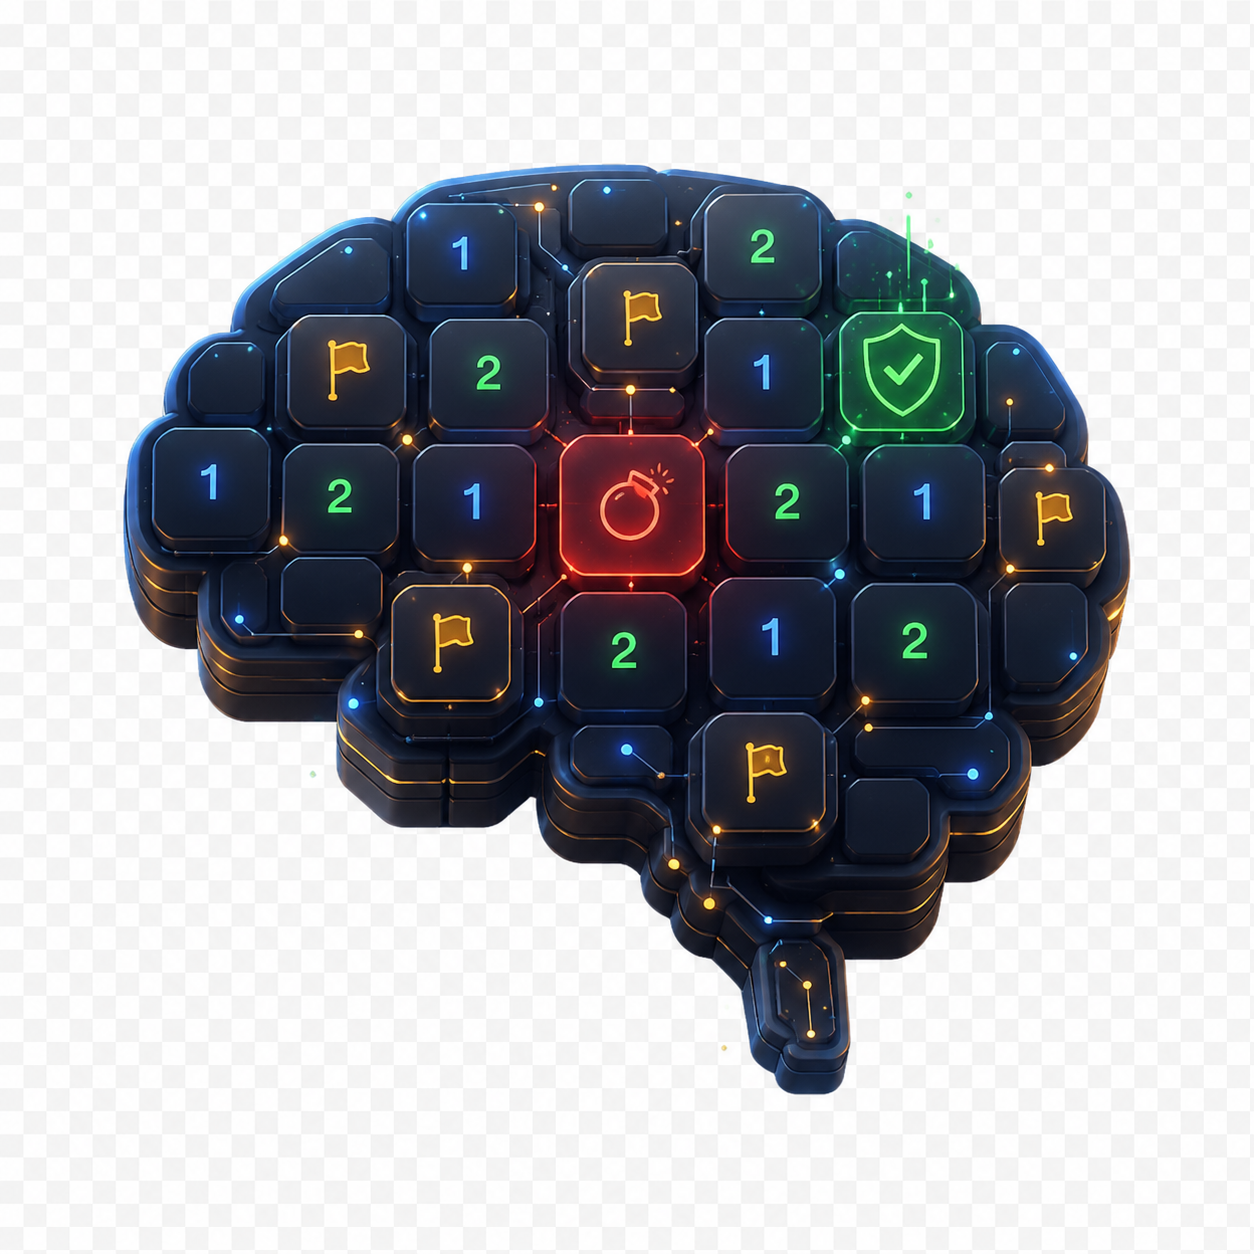
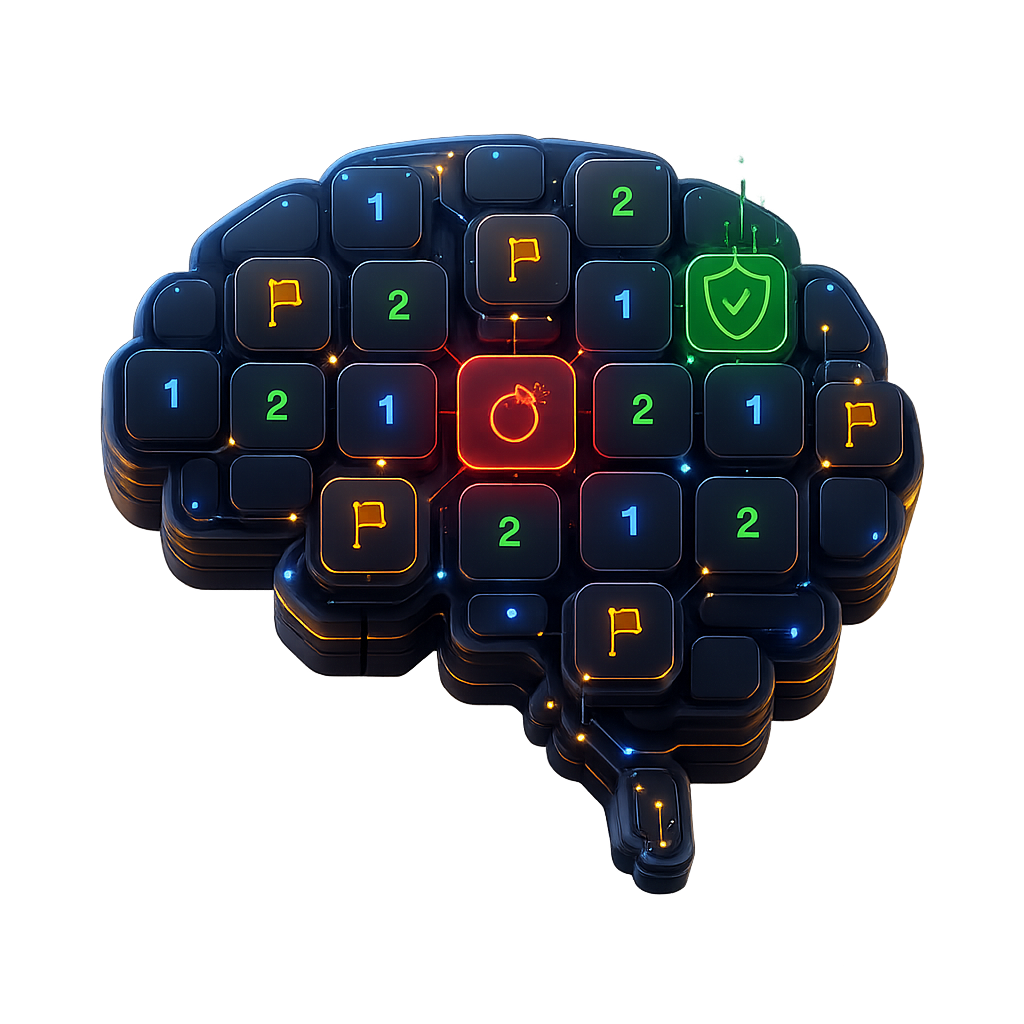
Polish landing hero layout

Changed region(s): [[0.0938, 0.125, 0.9062, 0.875], [0.625, 0.6562, 0.6562, 0.6875]]

diff --git a/src/app/components/LandingPage.tsx b/src/app/components/LandingPage.tsx
@@ -12,6 +12,11 @@ const LANDING_BRAIN_IMAGES = {
   white: "/images/landing-brain-light.png",
 };
 
+const LANDING_BRAIN_IMAGE_SCALE = {
+  black: 1,
+  white: 0.94,
+};
+
 function LandingBrainImage() {
   const { theme } = useThemeMode();
 
@@ -25,6 +30,10 @@ function LandingBrainImage() {
       style={{
         display: "block",
         objectFit: "contain",
+        marginTop: "-48px",
+        marginBottom: "-64px",
+        transform: `scale(${LANDING_BRAIN_IMAGE_SCALE[theme]})`,
+        transformOrigin: "center",
         filter: "drop-shadow(0 22px 42px rgba(0,0,0,0.20))",
       }}
     />
@@ -50,7 +59,7 @@ export function LandingPage({ onPlay, onDaily }: Props) {
     <div className="min-h-screen" style={{ background: "var(--mm-bg)" }}>
       <section className="relative overflow-hidden">
         <div className="absolute inset-0 pointer-events-none" style={{ background: "var(--mm-hero-glow)" }} />
-        <div className="relative max-w-7xl mx-auto px-6 pt-20 pb-16 flex flex-col lg:flex-row items-center gap-12">
+        <div className="relative max-w-7xl mx-auto px-6 pt-8 pb-16 flex flex-col lg:flex-row items-center lg:items-start gap-8">
           <div className="flex-1 text-center lg:text-left">
             <div className="inline-flex items-center gap-2 px-3 py-1.5 rounded-full mb-6" style={{ background: "var(--mm-amber-glow)", border: "1px solid var(--mm-border-amber)" }}>
               <FlashIcon size={12} color="var(--mm-amber)" />
@@ -89,7 +98,7 @@ export function LandingPage({ onPlay, onDaily }: Props) {
             </div>
           </div>
 
-          <div className="flex-1 flex flex-col items-center gap-6 w-full max-w-xl">
+          <div className="flex-1 flex flex-col items-center gap-4 w-full max-w-xl">
             <LandingBrainImage />
 
             <div className="w-full rounded-2xl p-4" style={{ background: "var(--mm-surface-1)", border: "1px solid var(--mm-border)" }}>
